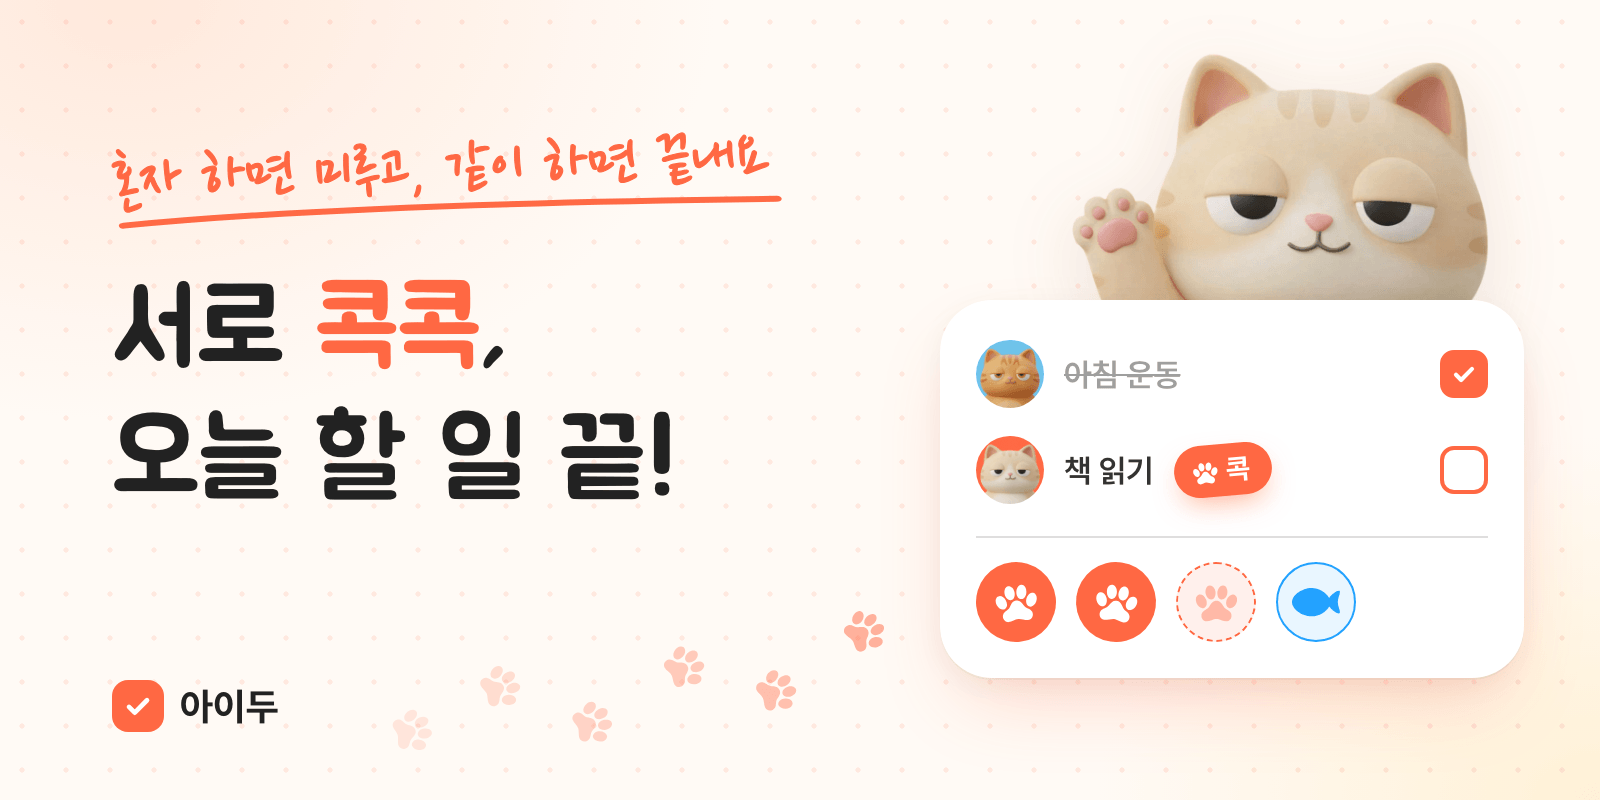
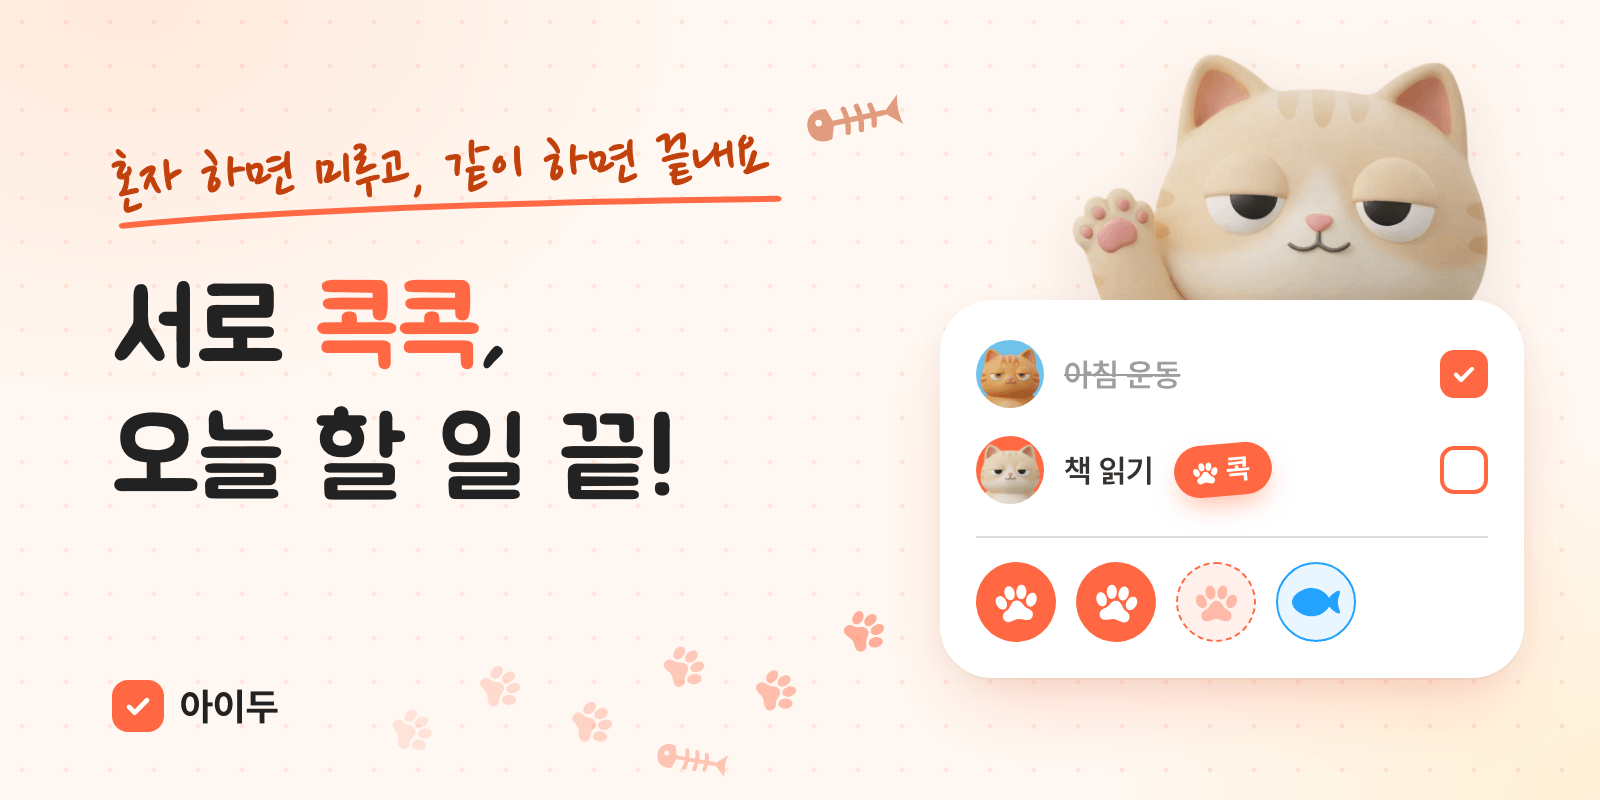
feat(seo): 초대 공유 이미지를 새 브랜드 톤으로 다듬는다
- 크림 바탕, 진주황 손글씨 문구, 생선 뼈 모티프를 더한다
- 규격(1600x800)과 /images/invite-share.png 주소는 그대로 둔다

diff --git a/scripts/invite-share/template.html b/scripts/invite-share/template.html
@@ -28,7 +28,7 @@
     background:
       radial-gradient(420px 300px at 8% 0%, #ffe9dc 0%, transparent 70%),
       radial-gradient(360px 260px at 100% 100%, #fff1d6 0%, transparent 70%),
-      #fffaf5;
+      #fff8f2;
     font-family: "Wanted Sans Subset", sans-serif;
     color: var(--foreground);
     -webkit-font-smoothing: antialiased;
@@ -48,9 +48,9 @@
     font-family: "Aido Hand Subset", cursive;
     font-size: 34px;
     line-height: 1;
-    color: var(--main);
+    color: #c2410c;
     /* 손글씨 마커 굵기: 같은 색 얇은 외곽선 */
-    -webkit-text-stroke: 0.6px var(--main);
+    -webkit-text-stroke: 0.6px #c2410c;
     transform: rotate(-2deg);
     transform-origin: left center;
   }
@@ -171,6 +171,10 @@
       <!-- apps/mobile/assets/icons/ic_paw.svg, ic_fish.svg -->
       <path id="paw" d="M19.3629 7.76445C19.1461 7.24922 18.7859 6.87773 18.3211 6.69062L18.3148 6.68828C18.1033 6.60545 17.878 6.56305 17.6508 6.56328H17.6258C16.5617 6.5793 15.4754 7.48359 14.923 8.81367C14.518 9.78633 14.4715 10.8324 14.7988 11.6121C15.0152 12.1277 15.3762 12.4992 15.843 12.6863L15.848 12.6883C16.0596 12.7711 16.2849 12.8135 16.5121 12.8133C17.5863 12.8133 18.684 11.909 19.2465 10.5613C19.6465 9.58984 19.6906 8.54453 19.3629 7.76445ZM15.1113 13.5012C14.4977 13.1324 13.9176 12.7836 13.5387 12.157C12.4934 10.4227 11.8621 9.37578 10.207 9.37578C8.55195 9.37578 7.91914 10.4227 6.87148 12.157C6.4918 12.7844 5.91055 13.1336 5.29492 13.5039C4.58906 13.9281 3.85977 14.3664 3.54492 15.2289C3.4225 15.5398 3.36084 15.8713 3.36328 16.2055C3.36328 17.6098 4.45703 18.7523 5.80078 18.7523C6.49414 18.7523 7.23203 18.5121 8.01289 18.2578C8.76367 18.0133 9.53984 17.7605 10.2109 17.7605C10.882 17.7605 11.6562 18.0133 12.4043 18.2578C13.1836 18.5105 13.918 18.7508 14.6133 18.7508C15.9551 18.7508 17.0469 17.6082 17.0469 16.2039C17.048 15.8695 16.985 15.538 16.8613 15.2273C16.5465 14.3641 15.8168 13.9254 15.1113 13.5012ZM6.06641 8.00273C6.53125 8.58594 7.12109 8.90703 7.72734 8.90703C7.81011 8.90701 7.89275 8.90088 7.97461 8.88867C9.23906 8.70273 10.027 7.15977 9.76836 5.37305C9.66016 4.62188 9.37109 3.92227 8.95703 3.40352C8.49297 2.82148 7.90234 2.50078 7.29648 2.50078C7.21372 2.5008 7.13108 2.50694 7.04922 2.51914C5.78477 2.70508 4.99688 4.24805 5.25547 6.03477C5.36328 6.78477 5.65234 7.48359 6.06641 8.00273ZM12.4398 8.88867C12.5217 8.90088 12.6043 8.90701 12.6871 8.90703C13.2937 8.90703 13.8832 8.58594 14.348 8.00273C14.7617 7.48359 15.0492 6.78477 15.1586 6.03398C15.4172 4.24805 14.6293 2.70508 13.3648 2.51836C13.283 2.50616 13.2003 2.50002 13.1176 2.5C12.5117 2.50078 11.9211 2.82148 11.457 3.40352C11.043 3.92227 10.7539 4.62188 10.6461 5.37383C10.3875 7.15977 11.1754 8.70273 12.4398 8.88867ZM4.56602 12.6883L4.57148 12.6863C5.0375 12.4992 5.39805 12.1281 5.61406 11.6129C5.94141 10.8316 5.89531 9.78672 5.49102 8.81406C4.93125 7.46797 3.83398 6.56328 2.76094 6.56328C2.53371 6.56295 2.30844 6.60536 2.09688 6.68828L2.09141 6.69023C1.62656 6.87578 1.26602 7.24844 1.05 7.76367C0.722657 8.54492 0.768751 9.58984 1.17305 10.5625C1.73281 11.9086 2.83008 12.8133 3.90313 12.8133C4.12996 12.8135 4.35482 12.7711 4.56602 12.6883Z" fill="currentColor"/>
       <path id="fish" d="M9.73828 0C13.5125 6.56547e-06 17.1946 2.30511 18.5498 4.99414C19.8313 3.14895 22.2853 1.40268 23.417 1.40234C24.9865 1.40234 22.8867 4.76299 22.8867 7.08594C22.8867 9.40889 24.9866 12.6943 23.417 12.6943C22.2918 12.694 19.8597 11.0058 18.5723 9.19434C17.2364 11.8742 13.5343 14.1338 9.73828 14.1338C4.98784 14.1338 0.000215724 10.5979 0 7.12402C0 3.65006 4.98774 0 9.73828 0Z" fill="currentColor"/>
+      <g id="fish-bone">
+        <path fill="currentColor" fill-rule="evenodd" d="M2 8c0-3.5 3-5.5 6.5-4.5L10 8l-1.5 4.5C5 13.5 2 11.5 2 8m3.5-2a1 1 0 1 0 0 2 1 1 0 0 0 0-2M25 8l5-4.5c-.8 3-.8 6 0 9z"/>
+        <path fill="none" stroke="currentColor" stroke-linecap="round" stroke-width="1.6" d="M10 8h15M13.5 4.5q1 3.5 0 7M17.5 4.5q1 3.5 0 7M21.5 5q.8 3 0 6"/>
+      </g>
       <path id="check" d="M5 10.5l3.2 3.2L15 6.8" fill="none" stroke="currentColor" stroke-width="2.6" stroke-linecap="round" stroke-linejoin="round"/>
     </defs>
   </svg>
@@ -184,6 +188,9 @@
     <svg aria-hidden="true" viewBox="0 0 20 20" style="left:378px;top:334px;opacity:.4;transform:rotate(64deg)"><use href="#paw"/></svg>
     <svg aria-hidden="true" viewBox="0 0 20 20" style="left:422px;top:304px;opacity:.5;transform:rotate(54deg)"><use href="#paw"/></svg>
   </div>
+
+  <svg aria-hidden="true" viewBox="0 0 32 16" style="position:absolute;left:400px;top:46px;width:54px;height:27px;color:#c2410c;opacity:.5;transform:rotate(-12deg)"><use href="#fish-bone"/></svg>
+  <svg aria-hidden="true" viewBox="0 0 32 16" style="position:absolute;left:326px;top:370px;width:40px;height:20px;color:var(--main);opacity:.35;transform:rotate(10deg)"><use href="#fish-bone"/></svg>
 
   <div class="copy">
     <p class="tagline" data-slot="tagline"></p>
